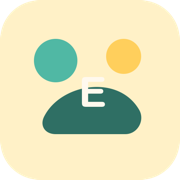
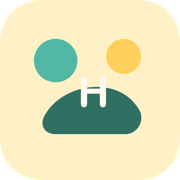
Label the Helena web app clearly

Changed region(s): [[0.4444, 0.4167, 0.6111, 0.6111]]

diff --git a/index.html b/index.html
@@ -6,11 +6,11 @@
     <meta name="theme-color" content="#fff1c7" />
     <meta name="description" content="L’app privée d’apprentissage hebdomadaire de Helena." />
     <meta name="apple-mobile-web-app-capable" content="yes" />
-    <meta name="apple-mobile-web-app-title" content="Elena" />
+    <meta name="apple-mobile-web-app-title" content="Helena" />
     <link rel="manifest" href="/manifest.webmanifest" />
     <link rel="icon" type="image/svg+xml" href="/favicon.svg" />
     <link rel="apple-touch-icon" sizes="180x180" href="/helena-apple-touch-icon.png" />
-    <title>Elena</title>
+    <title>Helena · Mes devoirs</title>
   </head>
   <body>
     <div id="root"></div>
